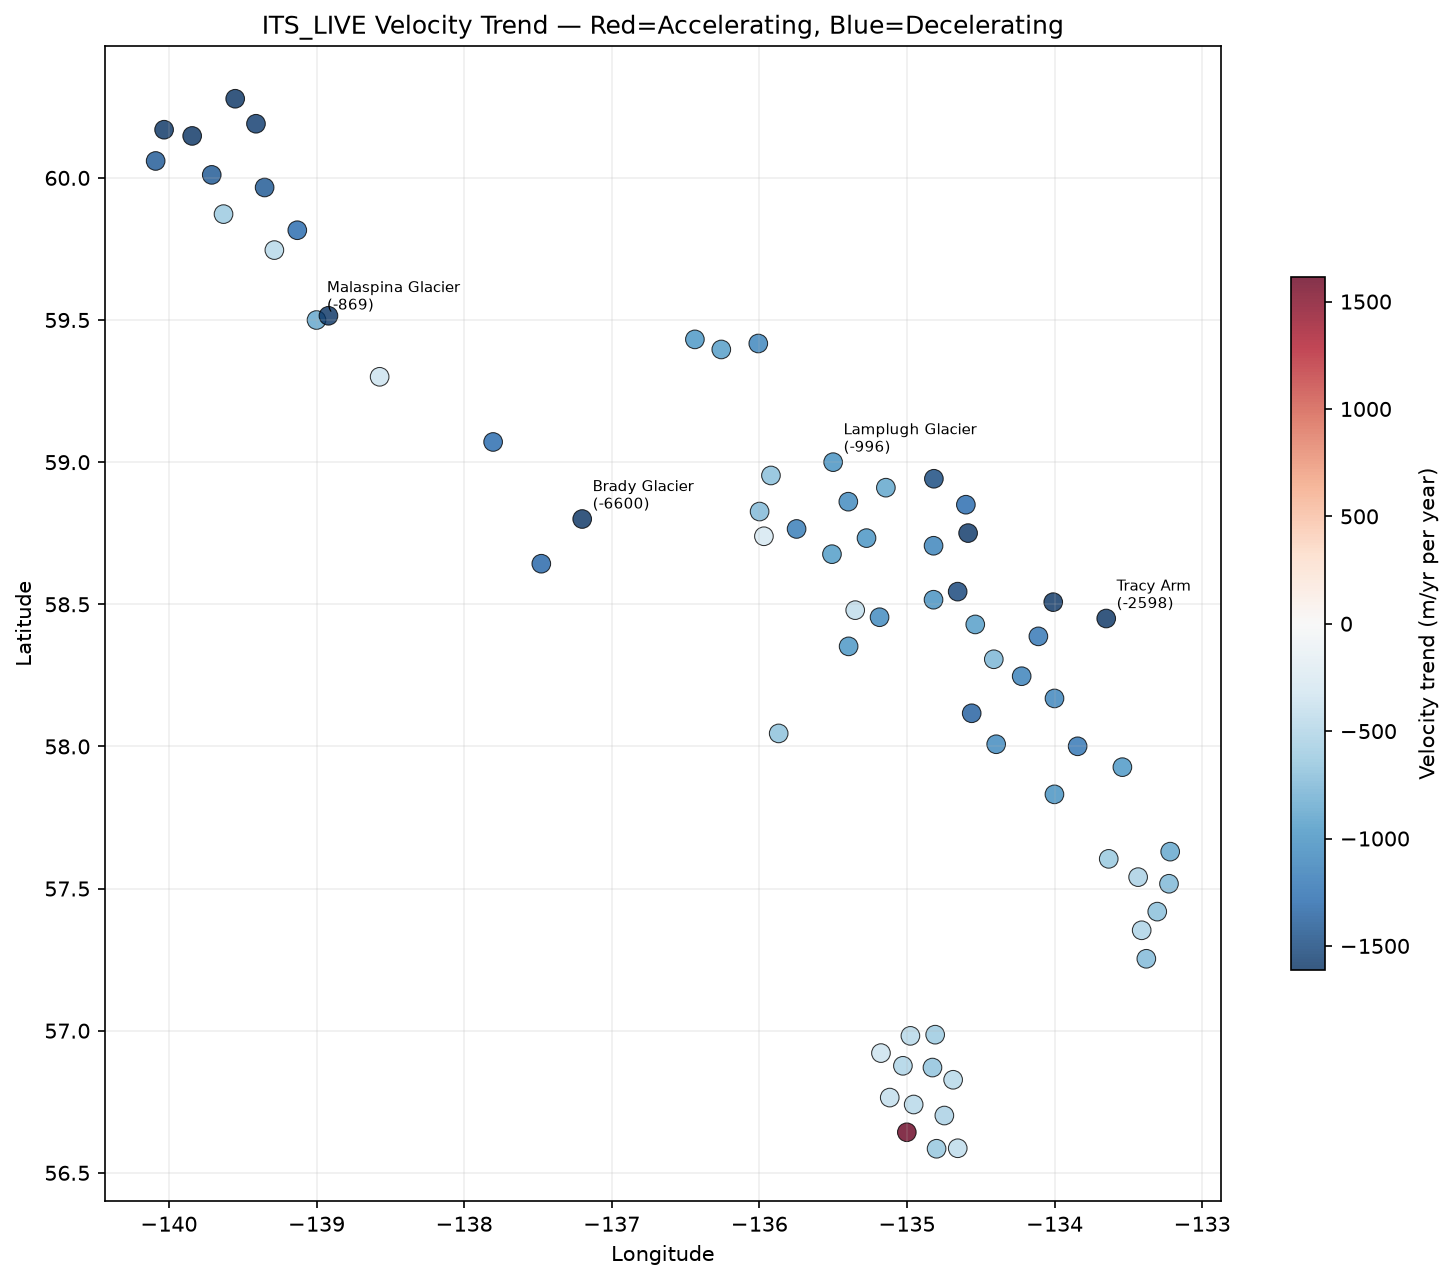
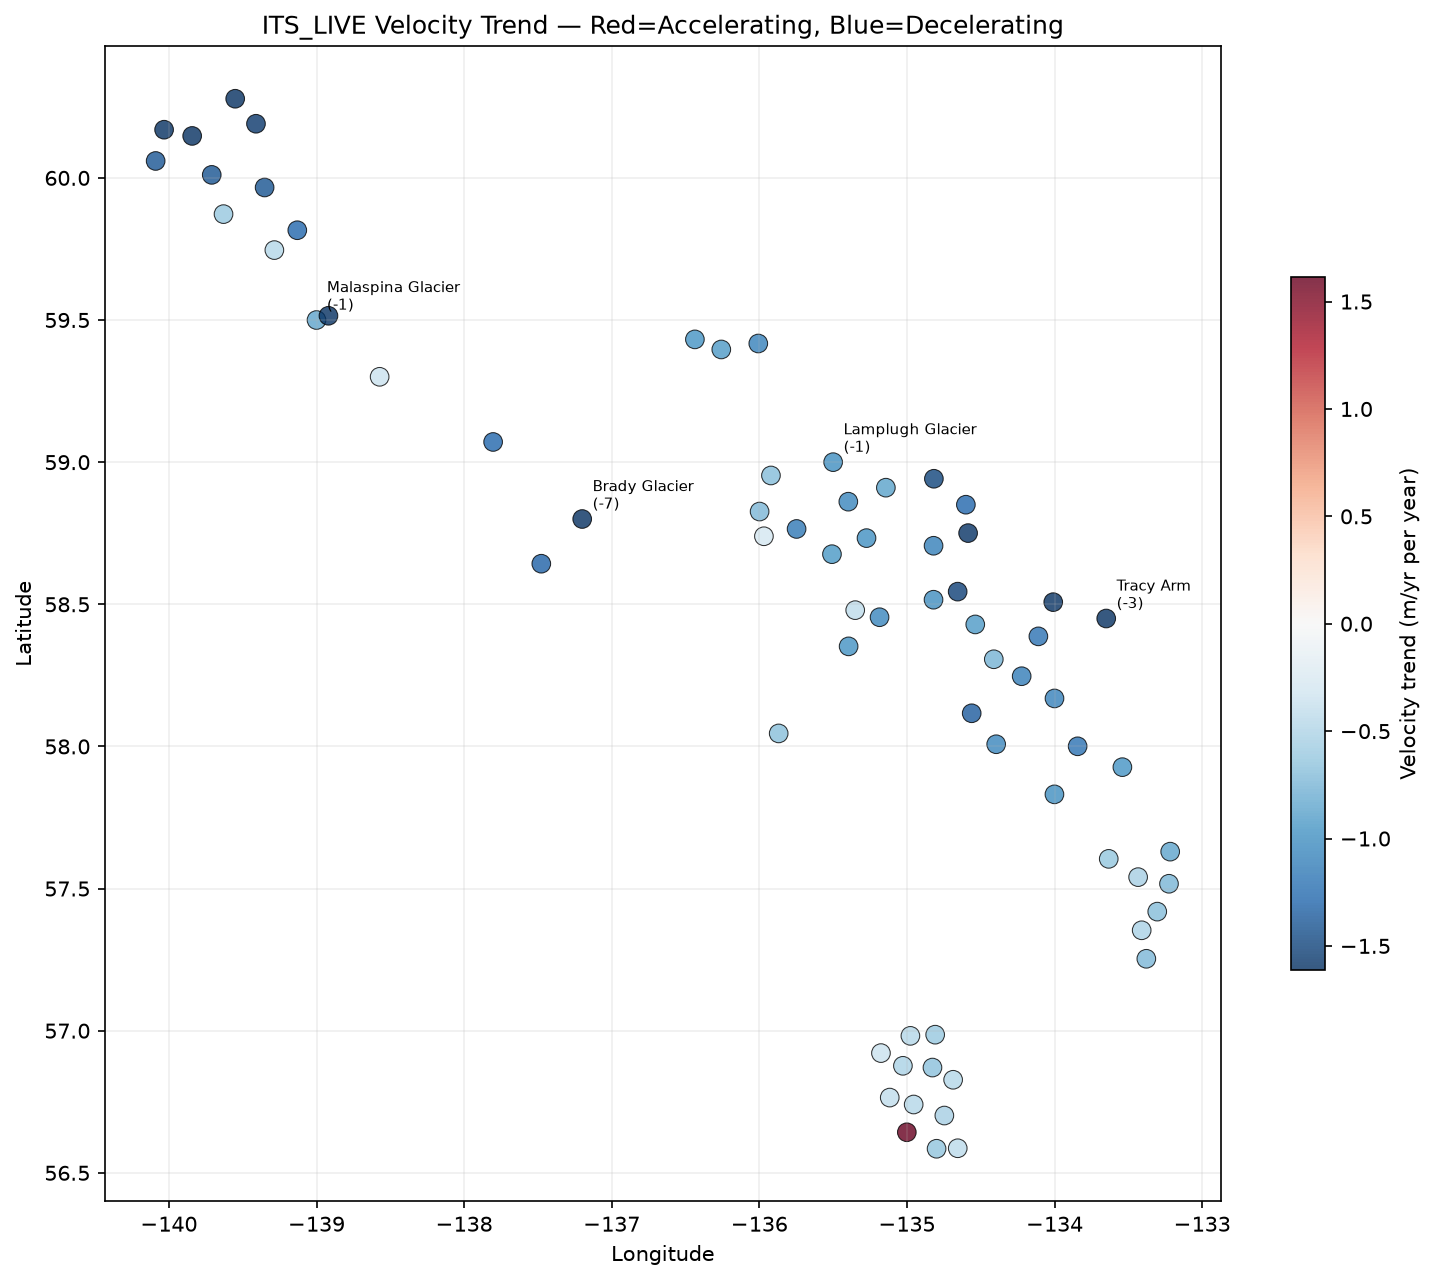
fix(glacier): correct velocity trend computation (1000x unit error)
stage 1/6: _compute_trend used pd.to_numeric on datetime64, which
mis-scaled the time axis and collapsed the regression x-range, yielding
absurd slopes (Brady -6600, site-110 +2790 m/yr per year). Replace with
timedelta.total_seconds() / SECONDS_PER_YEAR, align v with dates, sort
chronologically, and require MIN_TREND_OBSERVATIONS / MIN_TREND_SPAN_YEARS
before trusting a slope.

- Add trend config constants (no magic numbers)
- Refactor summary into reusable compute_summary()
- Add --from-parquet mode to regenerate summary without network re-extract
- Regenerate velocity_summary.geojson + trend map with corrected trends

diff --git a/glacier/10_extract.py b/glacier/10_extract.py
@@ -16,7 +16,6 @@ Usage:
 
 import json
 import sys
-from pathlib import Path
 
 import geopandas as gpd
 import httpx
@@ -32,8 +31,11 @@ from config import (
     DATA_RAW,
     GLACIER_POINTS_OF_INTEREST,
     ITS_LIVE_CATALOG_URL,
+    MIN_TREND_OBSERVATIONS,
+    MIN_TREND_SPAN_YEARS,
     MIN_VELOCITY_OBSERVATIONS,
     SCARP_DATA,
+    SECONDS_PER_YEAR,
     SE_ALASKA_BBOX_WGS84,
     VELOCITY_OUTLIER_THRESHOLD_M_YR,
     VELOCITY_SUMMARY_FILE,
@@ -300,42 +302,7 @@ def main() -> None:
     print(f"Saved time series -> {ts_path}")
 
     # Step 5: Compute summary stats per point
-    print("\nComputing summary statistics ...")
-    summary_rows = []
-    for point_id, group in combined.groupby("point_id"):
-        v_clean = group["v"].dropna()
-        if len(v_clean) == 0:
-            continue
-
-        lon = group["lon"].iloc[0]
-        lat = group["lat"].iloc[0]
-        dates = pd.to_datetime(group["mid_date"])
-
-        summary_rows.append(
-            {
-                "point_id": point_id,
-                "lon": lon,
-                "lat": lat,
-                "geometry": Point(lon, lat),
-                "obs_count": len(v_clean),
-                "v_mean": float(v_clean.mean()),
-                "v_max": float(v_clean.max()),
-                "v_std": float(v_clean.std()),
-                "v_median": float(v_clean.median()),
-                "date_start": str(dates.min())[:10],
-                "date_end": str(dates.max())[:10],
-                "date_span_years": float(
-                    (dates.max() - dates.min()).days / 365.25
-                ),
-                # Trend: simple linear regression of v vs time
-                "v_trend_m_yr_per_year": _compute_trend(v_clean.values, dates),
-            }
-        )
-
-    summary_gdf = gpd.GeoDataFrame(summary_rows, crs="EPSG:4326")
-    summary_path = DATA_PROCESSED / VELOCITY_SUMMARY_FILE
-    summary_gdf.to_file(summary_path, driver="GeoJSON")
-    print(f"Saved summary -> {summary_path} ({len(summary_gdf)} points)")
+    summary_gdf = compute_summary(combined)
 
     # Print stats
     print("\n" + "=" * 60)
@@ -359,19 +326,103 @@ def main() -> None:
     print("\nDone. Run 20_visualize.py to generate plots and maps.")
 
 
+def compute_summary(combined: pd.DataFrame) -> gpd.GeoDataFrame:
+    """Compute per-point velocity summary stats (incl. a robust linear trend).
+
+    Writes velocity_summary.geojson and returns the GeoDataFrame. Reused by both
+    a full extraction run and the `--from-parquet` regeneration path.
+    """
+    print("\nComputing summary statistics ...")
+    summary_rows = []
+    for point_id, group in combined.groupby("point_id"):
+        v_clean = group["v"].dropna()
+        if len(v_clean) == 0:
+            continue
+
+        lon = float(group["lon"].iloc[0])
+        lat = float(group["lat"].iloc[0])
+        dates = pd.to_datetime(group["mid_date"])
+
+        summary_rows.append(
+            {
+                "point_id": point_id,
+                "lon": lon,
+                "lat": lat,
+                "geometry": Point(lon, lat),
+                "obs_count": len(v_clean),
+                "v_mean": float(v_clean.mean()),
+                "v_max": float(v_clean.max()),
+                "v_std": float(v_clean.std()),
+                "v_median": float(v_clean.median()),
+                "date_start": str(dates.min())[:10],
+                "date_end": str(dates.max())[:10],
+                "date_span_years": float((dates.max() - dates.min()).days / 365.25),
+                # Trend: pass aligned full-length v and dates; the trend
+                # function drops NaN/NaT and sorts internally.
+                "v_trend_m_yr_per_year": _compute_trend(
+                    group["v"].to_numpy(), dates
+                ),
+            }
+        )
+
+    summary_gdf = gpd.GeoDataFrame(summary_rows, crs="EPSG:4326")
+    summary_path = DATA_PROCESSED / VELOCITY_SUMMARY_FILE
+    summary_gdf.to_file(summary_path, driver="GeoJSON")
+    print(f"Saved summary -> {summary_path} ({len(summary_gdf)} points)")
+    return summary_gdf
+
+
+def regenerate_summary_from_parquet() -> gpd.GeoDataFrame:
+    """Recompute velocity_summary.geojson from the cached time-series parquet.
+
+    Avoids a full network re-extraction when only the summary/trend logic changed.
+    """
+    ts_path = DATA_PROCESSED / VELOCITY_TIMESERIES_FILE
+    if not ts_path.exists():
+        print(f"Error: {ts_path} not found — run a full extraction first.")
+        sys.exit(1)
+    print(f"Loading cached time series from {ts_path} ...")
+    combined = pd.read_parquet(ts_path)
+    print(f"  {len(combined)} observations across {combined['point_id'].nunique()} points")
+    summary_gdf = compute_summary(combined)
+    print("\nTop-10 fastest points:")
+    for _, row in summary_gdf.nlargest(10, "v_mean").iterrows():
+        print(
+            f"  {row['point_id']:20s}  v_mean={row['v_mean']:8.1f}  "
+            f"v_max={row['v_max']:8.1f}  trend={row['v_trend_m_yr_per_year']:+.2f}/yr"
+        )
+    return summary_gdf
+
+
 def _compute_trend(v_values: np.ndarray, dates: pd.Series) -> float:
-    """Compute linear velocity trend (m/yr per year) via simple regression."""
-    if len(v_values) < 10:
+    """Compute linear velocity trend (m/yr per year) via least-squares regression.
+
+    `v_values` and `dates` must be positionally aligned (same point, same order).
+    Builds a clean aligned frame, drops NaT/NaN, sorts chronologically, converts
+    the time axis to fractional years via timedelta.total_seconds() (the
+    pd.to_numeric path silently mis-scales datetime64 and collapses the x-range),
+    then regresses. Returns 0.0 when there is too little signal to trust a slope.
+    """
+    frame = pd.DataFrame(
+        {"date": pd.to_datetime(pd.Series(dates).values, errors="coerce"), "v": v_values}
+    ).dropna()
+    if len(frame) < MIN_TREND_OBSERVATIONS:
         return 0.0
+
+    frame = frame.sort_values("date")
+    years = (frame["date"] - frame["date"].min()).dt.total_seconds() / SECONDS_PER_YEAR
+    if float(years.max()) < MIN_TREND_SPAN_YEARS:
+        return 0.0
+
     try:
-        date_nums = pd.to_numeric(dates.values[: len(v_values)])
-        # Normalize to years from start
-        date_years = (date_nums - date_nums[0]) / 1e9 / 86400 / 365.25
-        coeffs = np.polyfit(date_years, v_values, 1)
-        return float(coeffs[0])
-    except Exception:
+        slope = np.polyfit(years.to_numpy(), frame["v"].to_numpy(), 1)[0]
+    except (np.linalg.LinAlgError, ValueError):
         return 0.0
+    return float(slope)
 
 
 if __name__ == "__main__":
-    main()
+    if "--from-parquet" in sys.argv:
+        regenerate_summary_from_parquet()
+    else:
+        main()

diff --git a/glacier/config.py b/glacier/config.py
@@ -82,6 +82,11 @@ MAX_SAR_PAIR_DAYS = 12  # SAR pairs ≤ this
 MIN_VELOCITY_OBSERVATIONS = 5  # skip points with fewer time-series points
 VELOCITY_OUTLIER_THRESHOLD_M_YR = 10000.0  # cap obvious outliers
 
+# Velocity trend (linear regression of v vs time)
+MIN_TREND_OBSERVATIONS = 10  # need enough points for a meaningful slope
+MIN_TREND_SPAN_YEARS = 2.0  # need a real time baseline to regress over
+SECONDS_PER_YEAR = 365.25 * 86400.0
+
 # ---------------------------------------------------------------------------
 # Output file names
 # ---------------------------------------------------------------------------